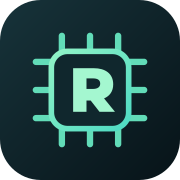
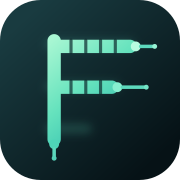
Migrate project identity and public path to FAMA

Changed region(s): [[0.1667, 0.1667, 0.8889, 0.8889]]

diff --git a/components/site-header.tsx b/components/site-header.tsx
@@ -1,12 +1,6 @@
-/* oxlint-disable next/no-html-link-for-pages -- Native navigation is intentional for iOS resilience. */
-import {
-  Building2,
-  CircuitBoard,
-  Database,
-  Library,
-  MemoryStick,
-} from 'lucide-react';
-import { atlasPath } from '@/lib/paths';
+/* oxlint-disable next/no-html-link-for-pages, next/no-img-element -- Native navigation and the static SVG logo are intentional for iOS resilience. */
+import { Building2, CircuitBoard, Library, MemoryStick } from 'lucide-react';
+import { famaPath } from '@/lib/paths';
 
 const navigation = [
   { href: '/chips/', label: '芯片库', icon: CircuitBoard },
@@ -19,10 +13,14 @@ export function SiteHeader() {
   return (
     <header className="sticky top-0 z-50 border-b border-white/8 bg-background/86 backdrop-blur-xl">
       <div className="mx-auto flex h-16 w-full max-w-7xl items-center justify-between px-4 sm:px-8">
-        <a href={atlasPath('/')} className="flex min-w-0 items-center gap-3">
-          <span className="grid size-9 shrink-0 place-items-center rounded-[13px] bg-primary text-primary-foreground shadow-[0_0_32px_color-mix(in_oklch,var(--primary)_24%,transparent)]">
-            <Database className="size-4.5" />
-          </span>
+        <a href={famaPath('/')} className="flex min-w-0 items-center gap-3">
+          <img
+            src={famaPath('/fama-logo.svg')}
+            alt="FAMA"
+            width="36"
+            height="36"
+            className="size-9 shrink-0 rounded-[13px] shadow-[0_0_32px_color-mix(in_oklch,var(--primary)_24%,transparent)]"
+          />
           <span className="min-w-0">
             <span className="block truncate text-[9px] font-semibold uppercase tracking-[0.2em] text-primary">
               Flagship AI Accelerator Memory Architectures
@@ -37,7 +35,7 @@ export function SiteHeader() {
           {navigation.map(({ href, label, icon: Icon }) => (
             <a
               key={href}
-              href={atlasPath(href)}
+              href={famaPath(href)}
               className="inline-flex items-center gap-2 rounded-xl px-3 py-2 text-sm text-muted-foreground transition hover:bg-white/[0.055] hover:text-foreground"
             >
               <Icon className="size-4" />
@@ -47,7 +45,7 @@ export function SiteHeader() {
         </nav>
 
         <a
-          href={atlasPath('/updates/')}
+          href={famaPath('/updates/')}
           className="rounded-full border border-primary/30 bg-primary/8 px-3 py-1.5 text-[11px] font-medium text-primary"
         >
           每日监控
@@ -66,7 +64,7 @@ export function MobileNav() {
       {navigation.map(({ href, label, icon: Icon }) => (
         <a
           key={href}
-          href={atlasPath(href)}
+          href={famaPath(href)}
           className="flex min-w-0 flex-col items-center gap-1 rounded-2xl px-2 py-2 text-[10px] font-medium text-muted-foreground transition active:bg-white/10 active:text-foreground"
         >
           <Icon className="size-4" />

diff --git a/app/layout.tsx b/app/layout.tsx
@@ -3,7 +3,7 @@ import { Geist, Geist_Mono } from 'next/font/google';
 import { MobileNav, SiteHeader } from '@/components/site-header';
 import { SiteFooter } from '@/components/site-footer';
 import { PwaRegister } from '@/components/pwa-register';
-import { atlasPath } from '@/lib/paths';
+import { famaPath } from '@/lib/paths';
 import './globals.css';
 
 const geistSans = Geist({
@@ -17,26 +17,27 @@ const geistMono = Geist_Mono({
 });
 
 export const metadata: Metadata = {
-  metadataBase: new URL('https://yhhe.top/chipatlas/'),
+  metadataBase: new URL('https://yhhe.top/fama/'),
   title: 'FAMA｜Flagship AI Accelerator Memory Architectures',
-  description: '面向 AI 芯片研究者的存储架构、参数、技术路线与来源追踪知识库。',
-  manifest: atlasPath('/manifest.webmanifest'),
+  description:
+    'A source-grounded knowledge base for the memory systems, specifications, and technology roadmaps of flagship AI accelerators.',
+  manifest: famaPath('/manifest.webmanifest'),
   icons: {
     icon: [
       {
-        url: atlasPath('/chipatlas-icon-192.png'),
+        url: famaPath('/fama-icon-192.png'),
         sizes: '192x192',
         type: 'image/png',
       },
       {
-        url: atlasPath('/chipatlas-icon-512.png'),
+        url: famaPath('/fama-icon-512.png'),
         sizes: '512x512',
         type: 'image/png',
       },
     ],
     apple: [
       {
-        url: atlasPath('/apple-touch-icon.png'),
+        url: famaPath('/apple-touch-icon.png'),
         sizes: '180x180',
         type: 'image/png',
       },
@@ -51,13 +52,14 @@ export const metadata: Metadata = {
   openGraph: {
     type: 'website',
     title: 'FAMA · Flagship AI Accelerator Memory Architectures',
-    description: '从 Memory 看懂 AI 芯片',
-    url: 'https://yhhe.top/chipatlas/',
+    description:
+      'Memory systems, specifications, and technology roadmaps of flagship AI accelerators.',
+    url: 'https://yhhe.top/fama/',
     siteName: 'FAMA',
     locale: 'zh_CN',
     images: [
       {
-        url: atlasPath('/og.png'),
+        url: famaPath('/og.png'),
         width: 1200,
         height: 630,
         alt: 'FAMA 分享预览',
@@ -67,8 +69,9 @@ export const metadata: Metadata = {
   twitter: {
     card: 'summary_large_image',
     title: 'FAMA · Flagship AI Accelerator Memory Architectures',
-    description: '从 Memory 看懂 AI 芯片',
-    images: [atlasPath('/og.png')],
+    description:
+      'Memory systems, specifications, and technology roadmaps of flagship AI accelerators.',
+    images: [famaPath('/og.png')],
   },
 };
 

diff --git a/app/page.tsx b/app/page.tsx
@@ -14,7 +14,7 @@ import {
 import { ChipCard } from '@/components/chip-card';
 import { InstallGuide } from '@/components/install-guide';
 import { chips, memoryTopics } from '@/lib/catalog';
-import { atlasPath } from '@/lib/paths';
+import { famaPath } from '@/lib/paths';
 
 export default function Home() {
   const officialCount = chips.reduce(
@@ -46,13 +46,13 @@ export default function Home() {
 
           <div className="mt-8 flex flex-wrap gap-3">
             <a
-              href={atlasPath('/chips/')}
+              href={famaPath('/chips/')}
               className="inline-flex h-11 items-center gap-2 rounded-xl bg-primary px-4 text-sm font-medium text-primary-foreground transition hover:brightness-105"
             >
               进入芯片库 <ArrowRight className="size-4" />
             </a>
             <a
-              href={atlasPath('/memory/')}
+              href={famaPath('/memory/')}
               className="inline-flex h-11 items-center gap-2 rounded-xl border border-white/10 bg-white/[0.035] px-4 text-sm font-medium transition hover:bg-white/[0.07]"
             >
               <MemoryStick className="size-4" /> 存储技术专题
@@ -148,7 +148,7 @@ export default function Home() {
             </h2>
           </div>
           <a
-            href={atlasPath('/chips/')}
+            href={famaPath('/chips/')}
             className="inline-flex items-center gap-1.5 text-xs font-medium text-primary"
           >
             全部 {chips.length} 款 <ArrowRight className="size-3.5" />
@@ -177,7 +177,7 @@ export default function Home() {
           {memoryTopics.map((topic) => (
             <a
               key={topic.id}
-              href={atlasPath(`/memory/${topic.id}/`)}
+              href={famaPath(`/memory/${topic.id}/`)}
               className="group relative overflow-hidden rounded-[26px] border border-white/8 bg-card/65 p-5 transition hover:border-white/15 hover:bg-card"
             >
               <span
@@ -248,7 +248,7 @@ export default function Home() {
             </div>
           </div>
           <a
-            href={atlasPath('/updates/')}
+            href={famaPath('/updates/')}
             className="ml-4 shrink-0 text-xs font-medium text-primary"
           >
             查看监控

diff --git a/app/vendors/page.tsx b/app/vendors/page.tsx
@@ -9,7 +9,7 @@ import {
 } from 'lucide-react';
 
 import { vendorRadar } from '@/data/vendor-radar';
-import { atlasPath } from '@/lib/paths';
+import { famaPath } from '@/lib/paths';
 
 export const metadata: Metadata = {
   title: '全球 AI 芯片厂商雷达｜FAMA',
@@ -51,7 +51,7 @@ export default function VendorsPage() {
           <p className="mt-1 text-xs text-muted-foreground">已建完整档案</p>
         </div>
         <a
-          href={atlasPath('/updates/')}
+          href={famaPath('/updates/')}
           className="col-span-2 rounded-2xl border border-primary/16 bg-primary/[0.055] p-4 transition hover:bg-primary/[0.09] sm:col-span-1"
         >
           <Radar className="size-4 text-primary" />
@@ -101,7 +101,7 @@ export default function VendorsPage() {
                 </a>
                 {entry.chipId ? (
                   <a
-                    href={atlasPath(`/chips/${entry.chipId}/`)}
+                    href={famaPath(`/chips/${entry.chipId}/`)}
                     className="inline-flex items-center gap-1.5 font-medium text-primary"
                   >
                     完整档案 <ArrowRight className="size-3" />

diff --git a/app/memory/page.tsx b/app/memory/page.tsx
@@ -3,7 +3,7 @@ import type { Metadata } from 'next';
 import { ArrowRight, Layers3, MemoryStick } from 'lucide-react';
 
 import { memoryTopics } from '@/lib/catalog';
-import { atlasPath } from '@/lib/paths';
+import { famaPath } from '@/lib/paths';
 
 export const metadata: Metadata = {
   title: '存储技术专题｜FAMA',
@@ -31,7 +31,7 @@ export default function MemoryPage() {
         {memoryTopics.map((topic, index) => (
           <a
             key={topic.id}
-            href={atlasPath(`/memory/${topic.id}/`)}
+            href={famaPath(`/memory/${topic.id}/`)}
             className="group relative overflow-hidden rounded-[28px] border border-white/8 bg-card/68 p-6 transition hover:-translate-y-0.5 hover:border-white/15 hover:bg-card"
           >
             <div

diff --git a/components/chip-card.tsx b/components/chip-card.tsx
@@ -2,7 +2,7 @@
 import { ArrowRight, BadgeCheck, MemoryStick } from 'lucide-react';
 
 import type { ChipRecord } from '@/lib/catalog';
-import { atlasPath } from '@/lib/paths';
+import { famaPath } from '@/lib/paths';
 
 export function ChipCard({ chip }: { chip: ChipRecord }) {
   return (
@@ -58,7 +58,7 @@ export function ChipCard({ chip }: { chip: ChipRecord }) {
           {chip.officialSources.length} 个官方来源已核验
         </div>
         <a
-          href={atlasPath(`/chips/${chip.id}/`)}
+          href={famaPath(`/chips/${chip.id}/`)}
           className="flex items-center justify-between rounded-xl bg-white/[0.045] px-3 py-2.5 text-sm font-medium transition group-hover:bg-primary group-hover:text-primary-foreground"
         >
           查看存储架构

diff --git a/components/site-footer.tsx b/components/site-footer.tsx
@@ -1,5 +1,5 @@
 /* oxlint-disable next/no-html-link-for-pages -- Native navigation is intentional for iOS resilience. */
-import { atlasPath } from '@/lib/paths';
+import { famaPath } from '@/lib/paths';
 
 export function SiteFooter() {
   return (
@@ -7,7 +7,7 @@ export function SiteFooter() {
       <div className="flex flex-col gap-3 border-t border-white/8 pt-6 sm:flex-row sm:items-center sm:justify-between">
         <p>FAMA · Flagship AI Accelerator Memory Architectures</p>
         <div className="flex gap-4">
-          <a href={atlasPath('/sources/')} className="hover:text-foreground">
+          <a href={famaPath('/sources/')} className="hover:text-foreground">
             来源方法
           </a>
           <span>数据核验于 2026-09-04</span>

diff --git a/app/sources/page.tsx b/app/sources/page.tsx
@@ -9,7 +9,7 @@ import {
 
 import { SourceLink } from '@/components/source-link';
 import { chips, memoryTopics } from '@/lib/catalog';
-import { atlasPath } from '@/lib/paths';
+import { famaPath } from '@/lib/paths';
 
 export const metadata: Metadata = {
   title: '来源库与编辑方法｜FAMA',
@@ -90,7 +90,7 @@ export default function SourcesPage() {
       </section>
 
       <a
-        href={atlasPath('/updates/')}
+        href={famaPath('/updates/')}
         className="mt-3 flex items-center justify-between rounded-[22px] border border-primary/16 bg-primary/[0.055] p-4 text-sm font-medium text-primary transition hover:bg-primary/[0.09]"
       >
         查看每日官方源监控与待审核队列

diff --git a/app/memory/[id]/page.tsx b/app/memory/[id]/page.tsx
@@ -13,7 +13,7 @@ import {
 
 import { SourceLink } from '@/components/source-link';
 import { memoryTopicById, memoryTopics } from '@/lib/catalog';
-import { atlasPath } from '@/lib/paths';
+import { famaPath } from '@/lib/paths';
 
 type PageProps = { params: Promise<{ id: string }> };
 
@@ -49,7 +49,7 @@ export default async function MemoryDetailPage({ params }: PageProps) {
         aria-label="面包屑"
       >
         <a
-          href={atlasPath('/memory/')}
+          href={famaPath('/memory/')}
           className="inline-flex items-center gap-1 hover:text-foreground"
         >
           <ArrowLeft className="size-3.5" />

diff --git a/app/chips/[id]/page.tsx b/app/chips/[id]/page.tsx
@@ -15,7 +15,7 @@ import {
 
 import { SourceLink } from '@/components/source-link';
 import { chipById, chips } from '@/lib/catalog';
-import { atlasPath } from '@/lib/paths';
+import { famaPath } from '@/lib/paths';
 
 type PageProps = { params: Promise<{ id: string }> };
 
@@ -60,7 +60,7 @@ export default async function ChipDetailPage({ params }: PageProps) {
         aria-label="面包屑"
       >
         <a
-          href={atlasPath('/chips/')}
+          href={famaPath('/chips/')}
           className="inline-flex items-center gap-1 hover:text-foreground"
         >
           <ArrowLeft className="size-3.5" />

diff --git a/lib/paths.ts b/lib/paths.ts
@@ -1,6 +1,6 @@
-const basePath = process.env.NEXT_PUBLIC_CHIPATLAS_BASE_PATH ?? '';
+const basePath = process.env.NEXT_PUBLIC_FAMA_BASE_PATH ?? '';
 
-export function atlasPath(path: string): string {
+export function famaPath(path: string): string {
   if (!path.startsWith('/')) return path;
   if (!basePath) return path;
   if (path === '/') return `${basePath}/`;
@@ -8,4 +8,4 @@ export function atlasPath(path: string): string {
   return `${basePath}${path}`;
 }
 
-export const atlasBasePath = basePath;
+export const famaBasePath = basePath;

diff --git a/next.config.ts b/next.config.ts
@@ -1,16 +1,16 @@
 import type { NextConfig } from 'next';
 
-const isGitHubPages = process.env.CHIPATLAS_TARGET === 'github-pages';
+const isGitHubPages = process.env.FAMA_TARGET === 'github-pages';
 
 const nextConfig: NextConfig = {
   ...(isGitHubPages
     ? {
-        assetPrefix: '/chipatlas',
+        assetPrefix: '/fama',
         trailingSlash: true,
       }
     : {}),
   env: {
-    NEXT_PUBLIC_CHIPATLAS_BASE_PATH: isGitHubPages ? '/chipatlas' : '',
+    NEXT_PUBLIC_FAMA_BASE_PATH: isGitHubPages ? '/fama' : '',
   },
 };
 
